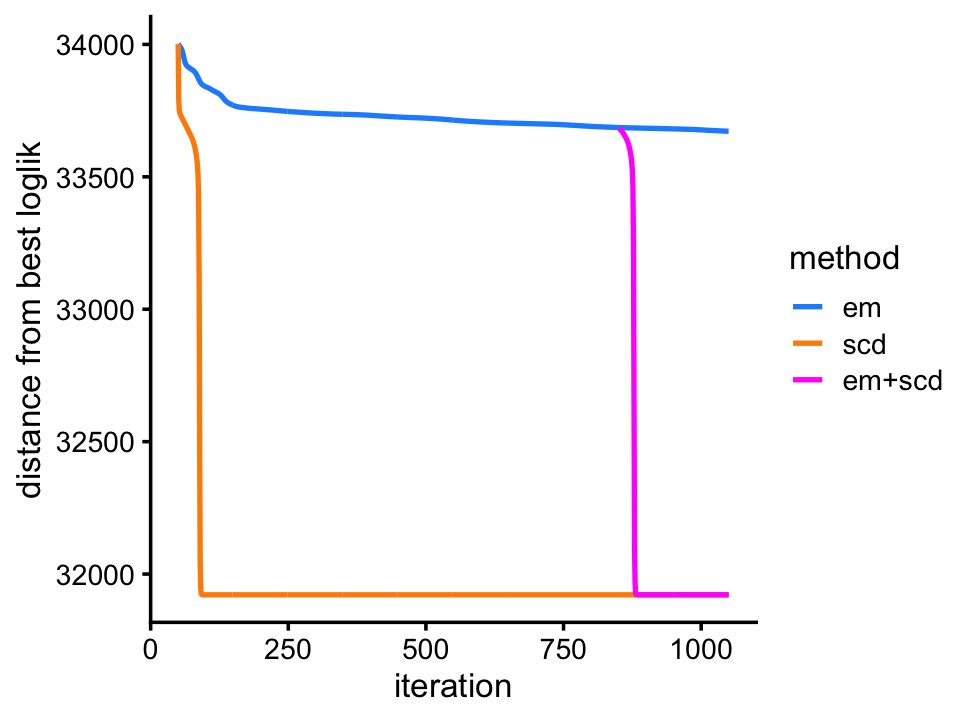
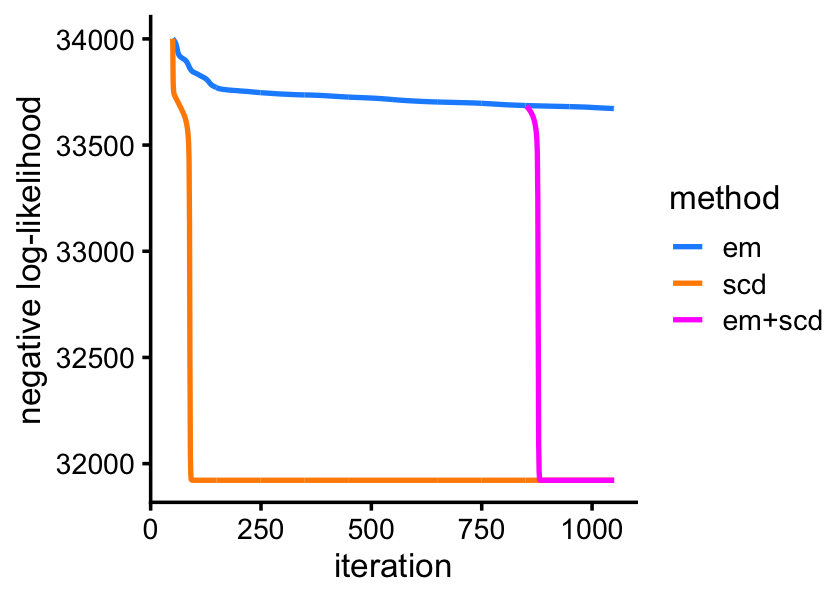
Added explanatory text to "smallsim" example.

Changed region(s): [[0.0, 0.03, 0.8048, 0.99], [0.8048, 0.3, 0.9905, 0.57], [0.7119, 0.18, 0.7738, 0.21]]

diff --git a/docs/smallsim.html b/docs/smallsim.html
@@ -414,16 +414,16 @@ This reproducible <a href="http://rmarkdown.rstudio.com">R Markdown</a> analysis
 <div class="panel panel-default">
 <div class="panel-heading">
 <p class="panel-title">
-<a data-toggle="collapse" data-parent="#workflowr-checks" href="#strongRepositoryversionstrongahrefhttpsgithubcomstephenslabfastTopicsexperimentstreef783c31d140e8c1936efe43eabbcdc9e4ad8a3f8targetblankf783c31a"> <span class="glyphicon glyphicon-ok text-success" aria-hidden="true"></span> <strong>Repository version:</strong> <a href="https://github.com/stephenslab/fastTopics-experiments/tree/f783c31d140e8c1936efe43eabbcdc9e4ad8a3f8" target="_blank">f783c31</a> </a>
+<a data-toggle="collapse" data-parent="#workflowr-checks" href="#strongRepositoryversionstrongahrefhttpsgithubcomstephenslabfastTopicsexperimentstreef5516ac2a3e5f55aca8eb3d3548130d74ef06d6btargetblankf5516aca"> <span class="glyphicon glyphicon-ok text-success" aria-hidden="true"></span> <strong>Repository version:</strong> <a href="https://github.com/stephenslab/fastTopics-experiments/tree/f5516ac2a3e5f55aca8eb3d3548130d74ef06d6b" target="_blank">f5516ac</a> </a>
 </p>
 </div>
[2 lines of base64/hex data omitted]
 <div class="panel-body">
 <p>
 Great! You are using Git for version control. Tracking code development and connecting the code version to the results is critical for reproducibility.
 </p>
 <p>
-The results in this page were generated with repository version <a href="https://github.com/stephenslab/fastTopics-experiments/tree/f783c31d140e8c1936efe43eabbcdc9e4ad8a3f8" target="_blank">f783c31</a>. See the <em>Past versions</em> tab to see a history of the changes made to the R Markdown and HTML files.
+The results in this page were generated with repository version <a href="https://github.com/stephenslab/fastTopics-experiments/tree/f5516ac2a3e5f55aca8eb3d3548130d74ef06d6b" target="_blank">f5516ac</a>. See the <em>Past versions</em> tab to see a history of the changes made to the R Markdown and HTML files.
 </p>
 <p>
 Note that you need to be careful to ensure that all relevant files for the analysis have been committed to Git prior to generating the results (you can use <code>wflow_publish</code> or <code>wflow_git_commit</code>). workflowr only checks the R Markdown file, but you know if there are other scripts or data files that it depends on. Below is the status of the Git repository when the results were generated:
@@ -472,6 +472,40 @@ Message
 </tr>
 </thead>
 <tbody>
+<tr>
+<td>
+Rmd
+</td>
+<td>
+<a href="https://github.com/stephenslab/fastTopics-experiments/blob/f5516ac2a3e5f55aca8eb3d3548130d74ef06d6b/analysis/smallsim.Rmd" target="_blank">f5516ac</a>
+</td>
+<td>
+Peter Carbonetto
+</td>
+<td>
+2021-03-07
+</td>
+<td>
+workflowr::wflow_publish(“smallsim.Rmd”)
+</td>
+</tr>
+<tr>
+<td>
+html
+</td>
+<td>
+<a href="https://rawcdn.githack.com/stephenslab/fastTopics-experiments/1185ab4c1aa3beb4b3565ee2c07c85f5f93c3c8e/docs/smallsim.html" target="_blank">1185ab4</a>
+</td>
+<td>
+Peter Carbonetto
+</td>
+<td>
+2021-03-07
+</td>
+<td>
+Revised the progress plots in the “smallsim” demo.
+</td>
+</tr>
 <tr>
 <td>
 Rmd
@@ -885,7 +919,7 @@ pdat &lt;- subset(pdat,x &gt;= 50)
 ggplot(pdat,aes(x = x,y = y,color = method)) +
   geom_line(size = 0.75) +
   scale_color_manual(values = c(&quot;dodgerblue&quot;,&quot;darkorange&quot;)) +
-  labs(x = &quot;iteration&quot;,y = &quot;distance from best loglik&quot;) +
+  labs(x = &quot;iteration&quot;,y = &quot;negative log-likelihood&quot;) +
   theme_cowplot(font_size = 10)</code></pre>
 <p><img src="figure/smallsim.Rmd/plot-progress-1-1.png" width="420" style="display: block; margin: auto;" /></p>
 <p>
@@ -910,6 +944,17 @@ Date
 </tr>
 </thead>
 <tbody>
+<tr>
+<td>
+<a href="https://github.com/stephenslab/fastTopics-experiments/blob/1185ab4c1aa3beb4b3565ee2c07c85f5f93c3c8e/docs/figure/smallsim.Rmd/plot-progress-1-1.png" target="_blank">1185ab4</a>
+</td>
+<td>
+Peter Carbonetto
+</td>
+<td>
+2021-03-07
+</td>
+</tr>
 <tr>
 <td>
 <a href="https://github.com/stephenslab/fastTopics-experiments/blob/913316c00a417f7344117f36b0ec2d1d28eef90a/docs/figure/smallsim.Rmd/plot-progress-1-1.png" target="_blank">913316c</a>
@@ -1026,7 +1071,7 @@ Peter Carbonetto
 </table>
 </div>
 </div>
-<p>As before, we run the EM and SCD updates to fit the multinomial topic model.</p>
+<p>As before, we run the EM and SCD updates to fit the multinomial topic model, with a twist that we perform another round of SCD updates after running the EM updates. This will be explained shortly.</p>
 <pre class="r"><code>fit0 &lt;- fit_poisson_nmf(X,k,numiter = 50,method = &quot;em&quot;,
                         control = list(extrapolate = FALSE,numiter = 4))
 fit1 &lt;- fit_poisson_nmf(X,fit0 = fit0,numiter = 800,method = &quot;em&quot;,
@@ -1040,7 +1085,7 @@ fit1 &lt;- fit_poisson_nmf(X,fit0 = fit1,numiter = 200,method = &quot;em&quot;,
 fit1 &lt;- poisson2multinom(fit1)
 fit2 &lt;- poisson2multinom(fit2)
 fit3 &lt;- poisson2multinom(fit3)</code></pre>
-<p><em>Add text here.</em></p>
+<p>In this second example, after initially making good progress, the EM estimates remain very far from the solution achieved by SCD even after hundreds of EM updates. This isn’t a case where the EM updates have settled on a different local solution—the SCD updates quickly “rescue” the EM estimates.</p>
 <pre class="r"><code>pdat&lt;-rbind(data.frame(x=1:1050,y=-fit1$progress$loglik.multinom,method=&quot;em&quot;),
             data.frame(x=1:1050,y=-fit2$progress$loglik.multinom,method=&quot;scd&quot;),
             data.frame(x=851:1050,y=-fit3$progress[851:1050,&quot;loglik.multinom&quot;],
@@ -1049,9 +1094,9 @@ pdat &lt;- subset(pdat,x &gt;= 50)
 ggplot(pdat,aes(x = x,y = y,color = method)) +
   geom_line(size = 0.75) +
   scale_color_manual(values = c(&quot;dodgerblue&quot;,&quot;darkorange&quot;,&quot;magenta&quot;)) +
-  labs(x = &quot;iteration&quot;,y = &quot;distance from best loglik&quot;) +
+  labs(x = &quot;iteration&quot;,y = &quot;negative log-likelihood&quot;) +
   theme_cowplot(font_size = 10)</code></pre>
-<p><img src="figure/smallsim.Rmd/plot-progress-2-1.png" width="480" style="display: block; margin: auto;" /></p>
+<p><img src="figure/smallsim.Rmd/plot-progress-2-1.png" width="420" style="display: block; margin: auto;" /></p>
 <p>
 <button type="button" class="btn btn-default btn-xs btn-workflowr btn-workflowr-fig" data-toggle="collapse" data-target="#fig-plot-progress-2-1">
 Past versions of plot-progress-2-1.png
@@ -1074,6 +1119,17 @@ Date
 </tr>
 </thead>
 <tbody>
+<tr>
+<td>
+<a href="https://github.com/stephenslab/fastTopics-experiments/blob/1185ab4c1aa3beb4b3565ee2c07c85f5f93c3c8e/docs/figure/smallsim.Rmd/plot-progress-2-1.png" target="_blank">1185ab4</a>
+</td>
+<td>
+Peter Carbonetto
+</td>
+<td>
+2021-03-07
+</td>
+</tr>
 <tr>
 <td>
 <a href="https://github.com/stephenslab/fastTopics-experiments/blob/7e3d55b7ab10297850f4cb9d7af726aee9bc676d/docs/figure/smallsim.Rmd/plot-progress-2-1.png" target="_blank">7e3d55b</a>
@@ -1122,6 +1178,7 @@ Peter Carbonetto
 </table>
 </div>
 </div>
+<p>This suggests that the EM algorithm may perform poorly in settings where the topics are correlated, even if the correlations are quite modest.</p>
 <br>
 <p>
 <button type="button" class="btn btn-default btn-workflowr btn-workflowr-sessioninfo" data-toggle="collapse" data-target="#workflowr-sessioninfo" style="display: block;">
